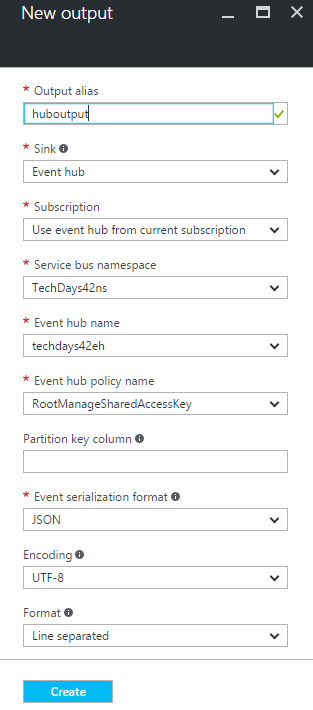
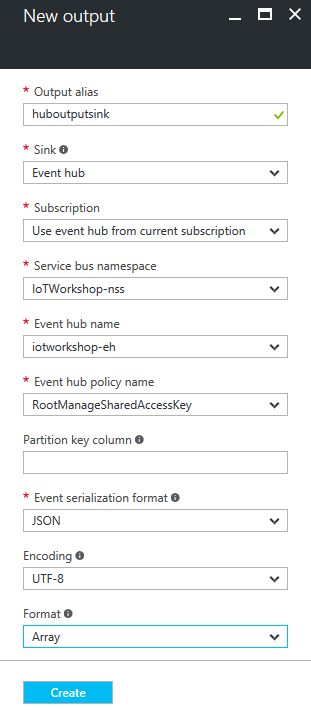
Outputsink added

diff --git a/Azure.md b/Azure.md
@@ -144,7 +144,7 @@ As shown above, the Azure Stream Analytics job will connect the IoT Hub and the 
     ![alt tag](img/azure-portal-add.png)
 
 6. Enter `hubinput` as Input alias
-7. Select `IoT Hub` as Source. Because we have only one IoT Hub in our account, all other fields are automatically filled in with the right IoT Hub, `TechDays42ih`
+7. Select `IoT Hub` as Source. Because we have only one IoT Hub in our account, all other fields are automatically filled in with the right IoT Hub, `IoTWorkshop-rg`
 
     ![alt tag](img/azure-stream-analytics-add-input.png)
 
@@ -155,13 +155,14 @@ As shown above, the Azure Stream Analytics job will connect the IoT Hub and the 
 
     ![alt tag](img/azure-portal-add.png)
 
-12. Enter `huboutput` as Output alias
+12. Enter `huboutputsink` as Output alias
 13. The `Event Hub` is already selected as Sink and all other fields are automatically filled in with the right Event Hub, `iotworkshop-eh` *Note: in lower case*
 
     ![alt tag](img/azure-stream-analytics-add-output.png)
 
-14. Select `Create`
-15. The Output will be created and the connection to the hub is tested automatically. 
+14. Change the Format into `Array`. *Note: Our output will generate JSON. And multiple lines of JSON are formatted as Array, not as separated lines*
+15. Select `Create`
+16. The Output will be created and the connection to the hub is tested automatically. 
 
 The input and output are now defined. Let's add the Azure Stream Analytics job query.
 
